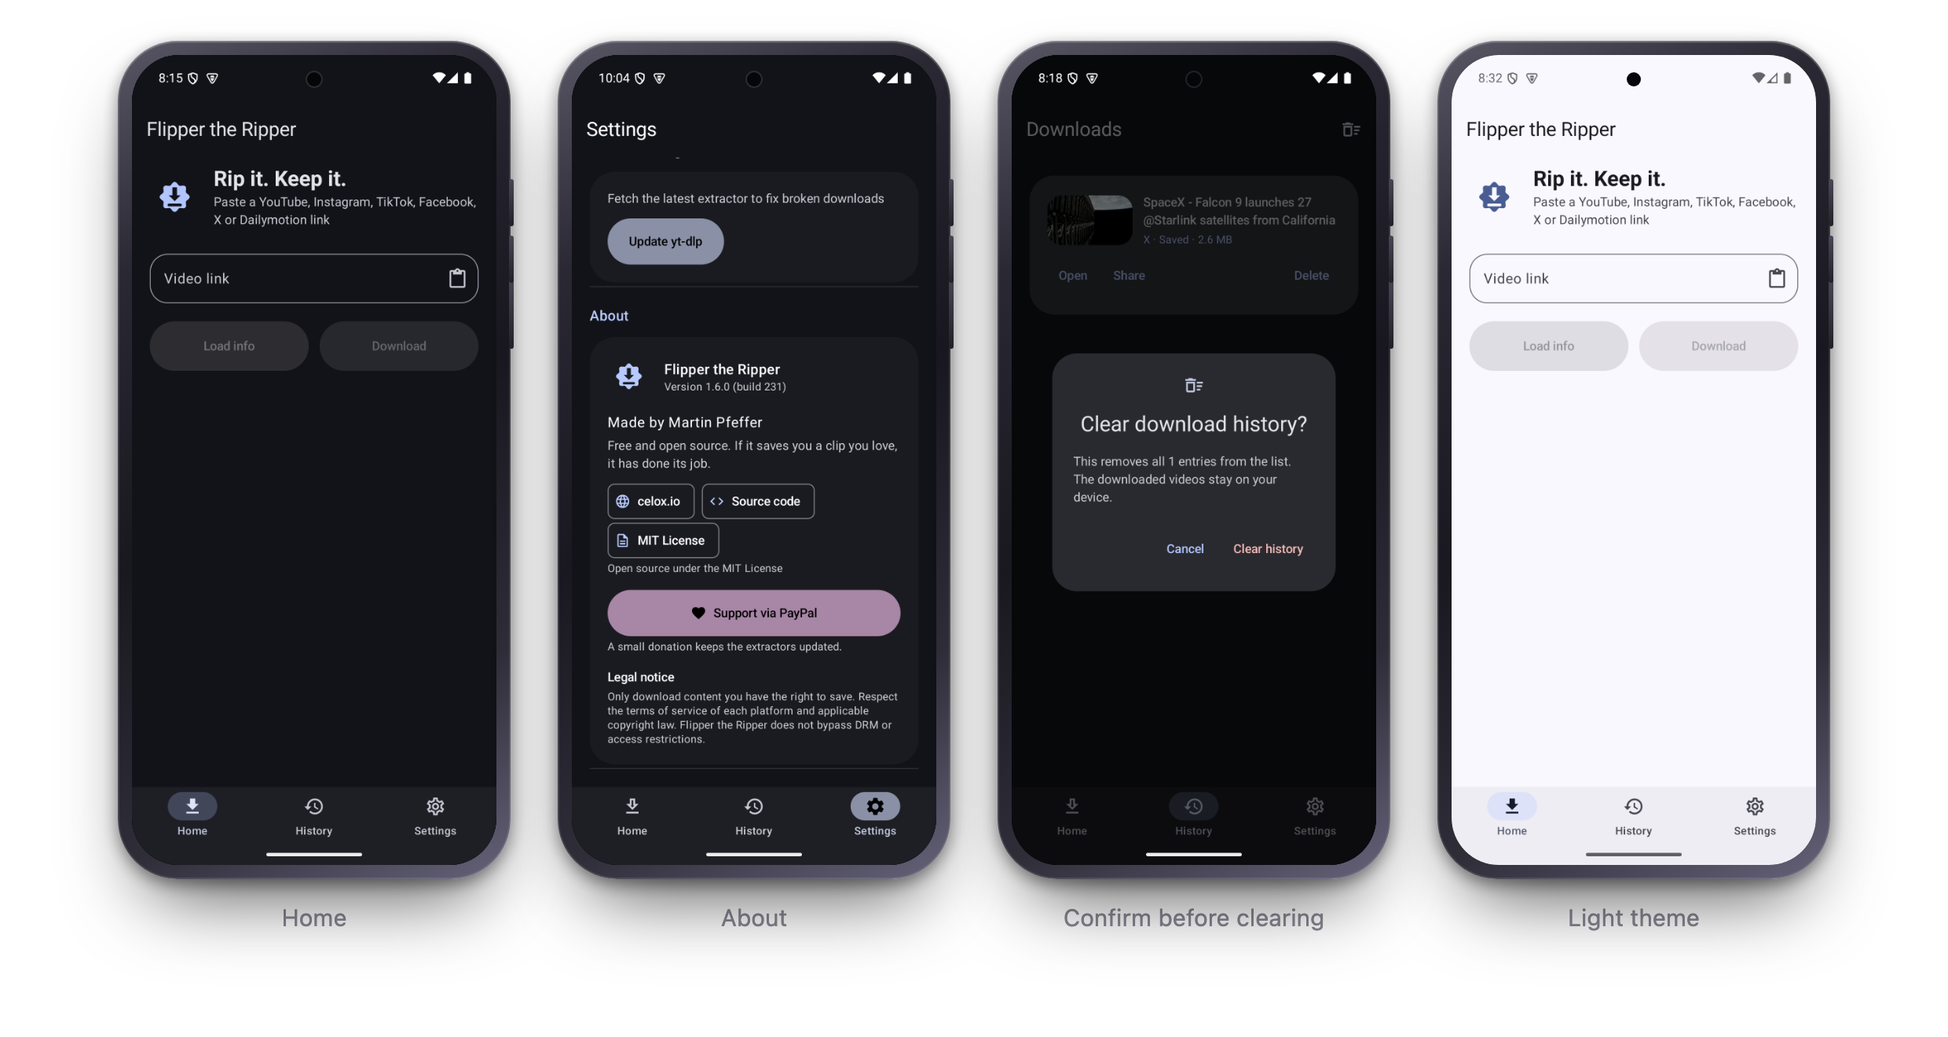
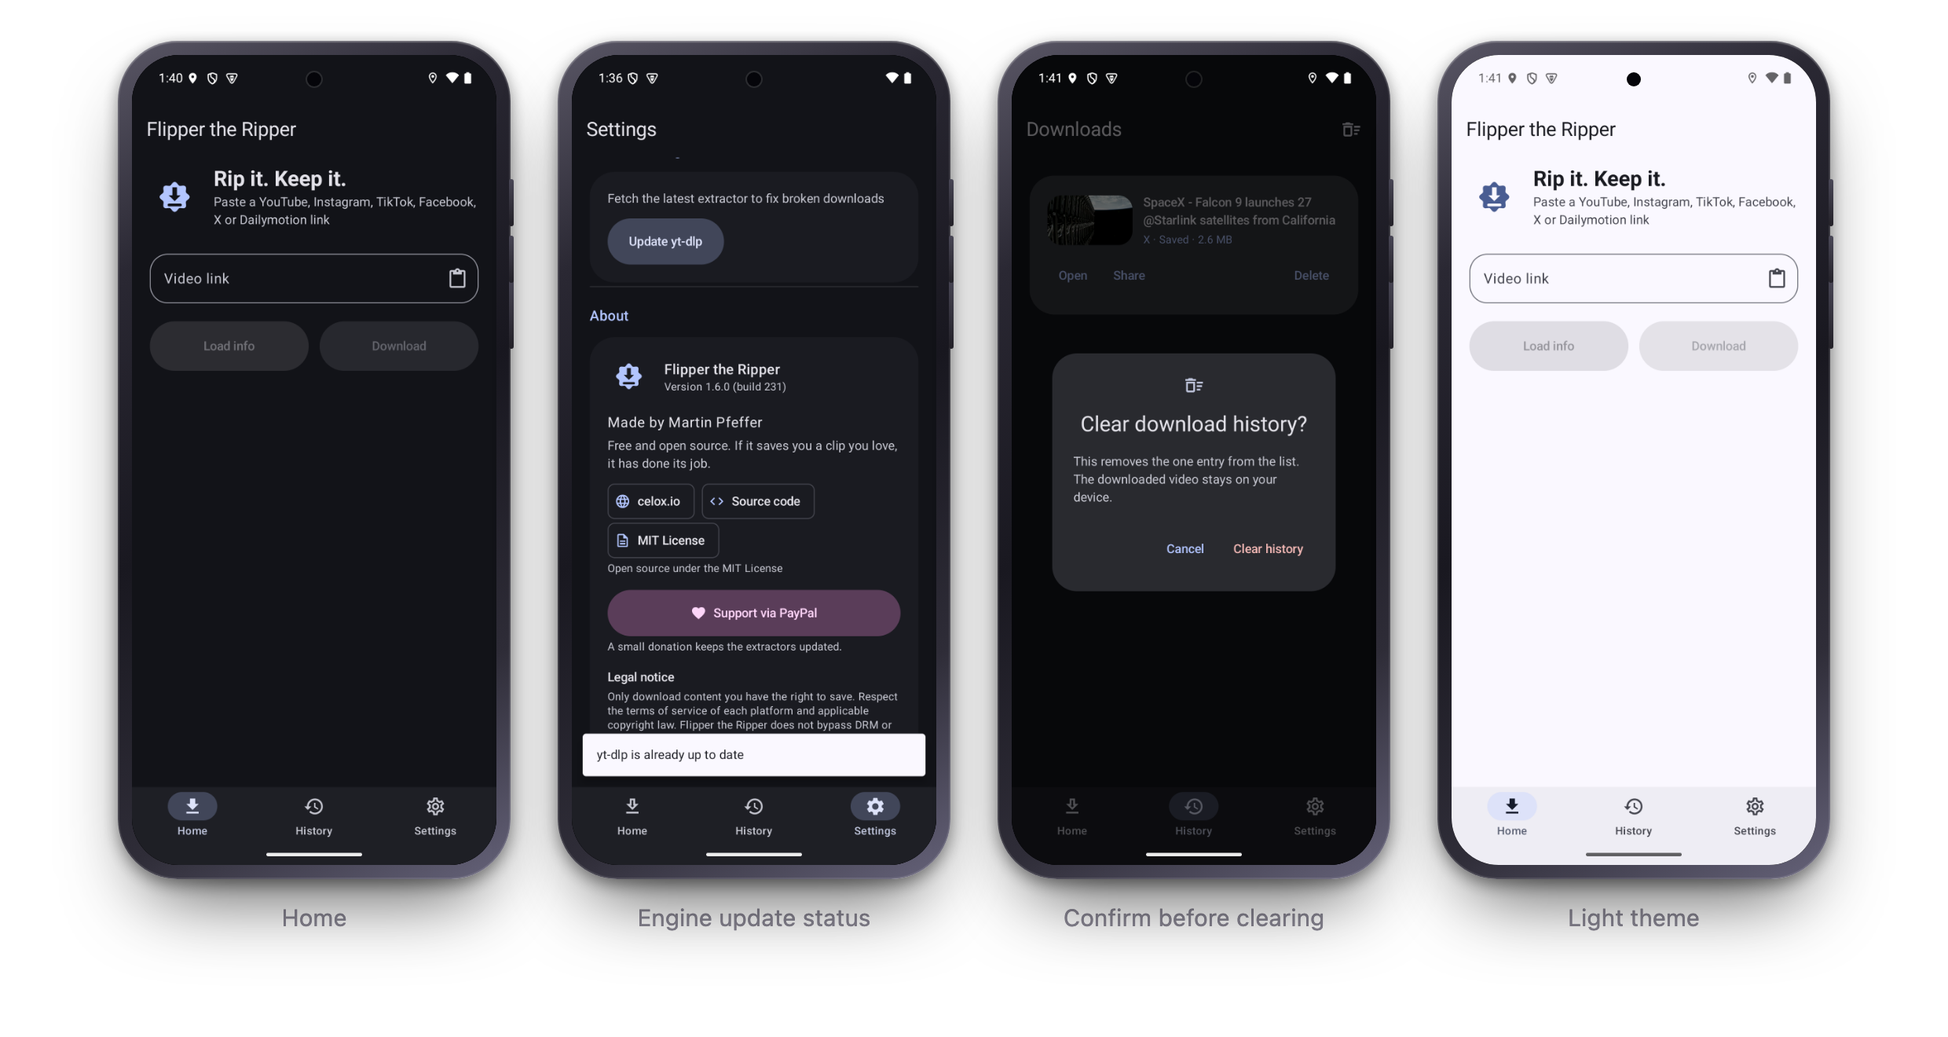
feat(settings): say what the engine update did, in words
Tapping "Update yt-dlp" answered with the library's enum name — "Engine
updated: ALREADY_UP_TO_DATE" — which is a machine talking. The raw status is
parsed into an EngineUpdateOutcome (updated / already current / unrecognised)
and the wording lives in string resources: "yt-dlp updated — broken downloads
should work again" or "yt-dlp is already up to date". An unrecognised status
is carried through rather than swallowed, so a future library version cannot
quietly become a false success; parsing tolerates case and whitespace because
it crosses a library boundary.

The button also shows that it is working. The fetch takes seconds over the
network and the button looked idle throughout, which invites a second tap: it
now shows a progress indicator with "Updating…" and is disabled meanwhile.

Fixes a real defect found by the test written for that state: the guard
against a second update sat inside the coroutine, so two taps in the same
frame both passed it and both fetched. The flag is claimed synchronously now.

Tests 204 -> 211, all mutation-probed, including one pinning that the new
wording and StaleEngineRetry agree on what counts as a real update — if those
diverged the app would claim it updated while refusing to retry on that basis.

README mockups replaced with fresh ones from this build; the second frame now
shows the update status, and the dialog frame incidentally shows the plural
resource working ("the one entry", not "all 1 entries").
[…]

diff --git a/app/src/main/kotlin/io/celox/flipperripper/ui/settings/SettingsScreen.kt b/app/src/main/kotlin/io/celox/flipperripper/ui/settings/SettingsScreen.kt
@@ -9,8 +9,10 @@ import androidx.compose.foundation.layout.fillMaxSize
 import androidx.compose.foundation.layout.fillMaxWidth
 import androidx.compose.foundation.layout.height
 import androidx.compose.foundation.layout.padding
+import androidx.compose.foundation.layout.size
 import androidx.compose.foundation.rememberScrollState
 import androidx.compose.foundation.verticalScroll
+import androidx.compose.material3.ButtonDefaults
 import androidx.compose.material3.Card
 import androidx.compose.material3.CardDefaults
 import androidx.compose.material3.ExperimentalMaterial3Api
@@ -38,7 +40,9 @@ import androidx.compose.ui.text.input.PasswordVisualTransformation
 import androidx.hilt.navigation.compose.hiltViewModel
 import androidx.lifecycle.compose.collectAsStateWithLifecycle
 import io.celox.flipperripper.R
+import io.celox.flipperripper.domain.model.EngineUpdateOutcome
 import io.celox.flipperripper.domain.model.ThemeMode
+import io.celox.flipperripper.ui.components.ExpressiveLoadingIndicator
 import io.celox.flipperripper.ui.components.SegmentedToggle
 import io.celox.flipperripper.ui.components.springPressed
 import io.celox.flipperripper.ui.theme.FieldShape
@@ -60,12 +64,28 @@ fun SettingsScreen(
     val scope = rememberCoroutineScope()
     val savedServerMsg = stringResource(R.string.settings_server_saved)
     val openFailedMsg = stringResource(R.string.about_open_failed)
+    val engineUpdatedMsg = stringResource(R.string.settings_engine_updated)
+    val engineCurrentMsg = stringResource(R.string.settings_engine_already_current)
+    val engineUnknownFmt = stringResource(R.string.settings_engine_update_unknown)
+    val updatingEngine by viewModel.updatingEngine.collectAsStateWithLifecycle()
 
     // Re-read the Instagram login state whenever Settings is shown, so it reflects a just-completed
     // (or cleared) login when the login screen pops back here.
     androidx.compose.runtime.LaunchedEffect(Unit) { viewModel.refreshInstagram() }
 
-    ObserveAsEvents(viewModel.messages) { message -> snackbarHostState.showSnackbar(message) }
+    ObserveAsEvents(viewModel.messages) { message ->
+        val text =
+            when (message) {
+                is SettingsMessage.Plain -> message.text
+                is SettingsMessage.EngineUpdate ->
+                    when (val outcome = message.outcome) {
+                        EngineUpdateOutcome.Updated -> engineUpdatedMsg
+                        EngineUpdateOutcome.AlreadyCurrent -> engineCurrentMsg
+                        is EngineUpdateOutcome.Unrecognised -> String.format(engineUnknownFmt, outcome.raw)
+                    }
+            }
+        snackbarHostState.showSnackbar(text)
+    }
 
     Scaffold(
         topBar = {
@@ -175,9 +195,20 @@ fun SettingsScreen(
                 val interaction = remember { MutableInteractionSource() }
                 FilledTonalButton(
                     onClick = viewModel::updateEngineNow,
+                    enabled = !updatingEngine,
                     interactionSource = interaction,
                     modifier = Modifier.height(Sizes.buttonHeight).springPressed(interaction),
-                ) { Text(stringResource(R.string.settings_update_engine)) }
+                ) {
+                    // Fetching the engine takes seconds over the network; an unchanged button reads as
+                    // "nothing happened" and invites a second tap.
+                    if (updatingEngine) {
+                        ExpressiveLoadingIndicator(modifier = Modifier.size(ButtonDefaults.IconSize))
+                        Spacer(Modifier.size(ButtonDefaults.IconSpacing))
+                        Text(stringResource(R.string.settings_update_engine_running))
+                    } else {
+                        Text(stringResource(R.string.settings_update_engine))
+                    }
+                }
             }
 
             SettingsSection(stringResource(R.string.settings_about)) {

diff --git a/app/src/test/kotlin/io/celox/flipperripper/ui/settings/SettingsViewModelTest.kt b/app/src/test/kotlin/io/celox/flipperripper/ui/settings/SettingsViewModelTest.kt
@@ -4,6 +4,7 @@ import app.cash.turbine.test
 import com.google.common.truth.Truth.assertThat
 import io.celox.flipperripper.domain.model.DownloadMode
 import io.celox.flipperripper.domain.model.EngineResult
+import io.celox.flipperripper.domain.model.EngineUpdateOutcome
 import io.celox.flipperripper.domain.model.ThemeMode
 import io.celox.flipperripper.domain.usecase.UpdateEngineUseCase
 import io.celox.flipperripper.testing.FakeEngineRepository
@@ -50,29 +51,65 @@ class SettingsViewModelTest {
         }
 
     @Test
-    fun `update engine success emits message`() =
+    fun `a real update is reported as an update, not as a library enum name`() =
         runTest {
+            // The screen used to show "Engine updated: DONE". What crosses the boundary now is state.
             engineRepo.updateResult = EngineResult.Success("DONE")
             val vm = createViewModel()
             vm.messages.test {
                 vm.updateEngineNow()
                 advanceUntilIdle()
-                assertThat(awaitItem()).contains("DONE")
+                assertThat(awaitItem())
+                    .isEqualTo(SettingsMessage.EngineUpdate(EngineUpdateOutcome.Updated))
                 cancelAndIgnoreRemainingEvents()
             }
         }
 
     @Test
-    fun `update engine failure emits error message`() =
+    fun `an engine that was already current is its own outcome`() =
         runTest {
-            engineRepo.updateResult =
-                EngineResult.Failure(io.celox.flipperripper.domain.model.DownloadError.Network())
+            // Not a failure, and not the same sentence as a real update.
+            engineRepo.updateResult = EngineResult.Success("ALREADY_UP_TO_DATE")
             val vm = createViewModel()
             vm.messages.test {
                 vm.updateEngineNow()
                 advanceUntilIdle()
-                assertThat(awaitItem()).isNotEmpty()
+                assertThat(awaitItem())
+                    .isEqualTo(SettingsMessage.EngineUpdate(EngineUpdateOutcome.AlreadyCurrent))
                 cancelAndIgnoreRemainingEvents()
             }
+        }
+
+    @Test
+    fun `update engine failure keeps the error's own wording`() =
+        runTest {
+            val error = io.celox.flipperripper.domain.model.DownloadError.Network()
+            engineRepo.updateResult = EngineResult.Failure(error)
+            val vm = createViewModel()
+            vm.messages.test {
+                vm.updateEngineNow()
+                advanceUntilIdle()
+                assertThat(awaitItem()).isEqualTo(SettingsMessage.Plain(error.message))
+                cancelAndIgnoreRemainingEvents()
+            }
+        }
+
+    @Test
+    fun `the update button reports that it is running, and only runs once`() =
+        runTest {
+            engineRepo.updateResult = EngineResult.Success("DONE")
+            val vm = createViewModel()
+            assertThat(vm.updatingEngine.value).isFalse()
+            vm.messages.test {
+                // A second tap while the first fetch is in flight must not start another one; the
+                // update is a network call that takes seconds with the button still on screen.
+                vm.updateEngineNow()
+                vm.updateEngineNow()
+                advanceUntilIdle()
+                assertThat(awaitItem()).isEqualTo(SettingsMessage.EngineUpdate(EngineUpdateOutcome.Updated))
+                expectNoEvents()
+                cancelAndIgnoreRemainingEvents()
+            }
+            assertThat(vm.updatingEngine.value).isFalse()
         }
 }

diff --git a/app/src/main/kotlin/io/celox/flipperripper/ui/settings/SettingsViewModel.kt b/app/src/main/kotlin/io/celox/flipperripper/ui/settings/SettingsViewModel.kt
@@ -7,6 +7,7 @@ import io.celox.flipperripper.domain.model.BackendConfig
 import io.celox.flipperripper.domain.model.DownloadMode
 import io.celox.flipperripper.domain.model.DownloadSource
 import io.celox.flipperripper.domain.model.EngineResult
+import io.celox.flipperripper.domain.model.EngineUpdateOutcome
 import io.celox.flipperripper.domain.model.ThemeMode
 import io.celox.flipperripper.domain.model.UserPreferences
 import io.celox.flipperripper.domain.repository.BackendConfigRepository
@@ -14,7 +15,9 @@ import io.celox.flipperripper.domain.repository.SettingsRepository
 import io.celox.flipperripper.domain.usecase.UpdateEngineUseCase
 import kotlinx.coroutines.channels.Channel
 import kotlinx.coroutines.flow.Flow
+import kotlinx.coroutines.flow.MutableStateFlow
 import kotlinx.coroutines.flow.SharingStarted
+import kotlinx.coroutines.flow.asStateFlow
 import kotlinx.coroutines.flow.receiveAsFlow
 import kotlinx.coroutines.flow.stateIn
 import kotlinx.coroutines.launch
@@ -56,8 +59,12 @@ constructor(
     fun setServer(url: String, apiKey: String) =
         viewModelScope.launch { backendConfigRepository.setServer(url, apiKey) }
 
-    private val _messages = Channel<String>(Channel.BUFFERED)
-    val messages: Flow<String> = _messages.receiveAsFlow()
+    private val _messages = Channel<SettingsMessage>(Channel.BUFFERED)
+    val messages: Flow<SettingsMessage> = _messages.receiveAsFlow()
+
+    /** True while an engine update is in flight, so the button can say so instead of looking idle. */
+    private val _updatingEngine = MutableStateFlow(false)
+    val updatingEngine = _updatingEngine.asStateFlow()
 
     fun setThemeMode(mode: ThemeMode) = viewModelScope.launch { settingsRepository.setThemeMode(mode) }
 
@@ -71,13 +78,26 @@ constructor(
 
     fun setDefaultMode(mode: DownloadMode) = viewModelScope.launch { settingsRepository.setDefaultMode(mode) }
 
-    fun updateEngineNow() =
+    fun updateEngineNow() {
+        // Claim the slot synchronously, before any coroutine starts. Checking the flag *inside* the
+        // coroutine lets two taps in the same frame both pass the check and both fetch — which is
+        // exactly what happened until a test caught it.
+        if (!_updatingEngine.compareAndSet(expect = false, update = true)) return
         viewModelScope.launch {
-            when (val result = updateEngine()) {
-                is EngineResult.Success -> _messages.send("Engine updated: ${result.value}")
-                is EngineResult.Failure -> _messages.send(result.error.message)
+            try {
+                val message =
+                    when (val result = updateEngine()) {
+                        is EngineResult.Success ->
+                            SettingsMessage.EngineUpdate(EngineUpdateOutcome.parse(result.value))
+                        // Engine errors already carry human wording from the error taxonomy.
+                        is EngineResult.Failure -> SettingsMessage.Plain(result.error.message)
+                    }
+                _messages.send(message)
+            } finally {
+                _updatingEngine.value = false
             }
         }
+    }
 
     private companion object {
         const val STOP_TIMEOUT_MS = 5_000L

diff --git a/app/src/test/kotlin/io/celox/flipperripper/domain/model/EngineUpdateOutcomeTest.kt b/app/src/test/kotlin/io/celox/flipperripper/domain/model/EngineUpdateOutcomeTest.kt
@@ -1,0 +1,51 @@
+package io.celox.flipperripper.domain.model
+
+import com.google.common.truth.Truth.assertThat
+import io.celox.flipperripper.data.engine.StaleEngineRetry
+import org.junit.Test
+
+class EngineUpdateOutcomeTest {
+    @Test
+    fun `a real version change reads as updated`() {
+        assertThat(EngineUpdateOutcome.parse("DONE")).isEqualTo(EngineUpdateOutcome.Updated)
+    }
+
+    @Test
+    fun `both ways of saying nothing changed mean the same thing`() {
+        // The library says ALREADY_UP_TO_DATE; the engine falls back to UP_TO_DATE when the library
+        // reports nothing at all. Neither is a failure.
+        listOf("ALREADY_UP_TO_DATE", "UP_TO_DATE").forEach {
+            assertThat(EngineUpdateOutcome.parse(it)).isEqualTo(EngineUpdateOutcome.AlreadyCurrent)
+        }
+    }
+
+    @Test
+    fun `case and whitespace crossing the library boundary do not create an unknown state`() {
+        listOf("done", " DONE ", "Done").forEach {
+            assertThat(EngineUpdateOutcome.parse(it)).isEqualTo(EngineUpdateOutcome.Updated)
+        }
+        assertThat(EngineUpdateOutcome.parse(" already_up_to_date "))
+            .isEqualTo(EngineUpdateOutcome.AlreadyCurrent)
+    }
+
+    @Test
+    fun `an unknown status is carried through, not swallowed`() {
+        // A future library version may add states; the screen should still be able to say something
+        // truthful rather than silently claiming success.
+        val outcome = EngineUpdateOutcome.parse("  SOME_NEW_STATE  ")
+        assertThat(outcome).isEqualTo(EngineUpdateOutcome.Unrecognised("SOME_NEW_STATE"))
+    }
+
+    @Test
+    fun `the retry rule and the wording agree on what counts as an update`() {
+        // StaleEngineRetry only retries after a real version change. If these two ever disagreed, the
+        // app would tell someone it updated while refusing to retry on that basis (or the reverse).
+        assertThat(StaleEngineRetry.updateJustifiesRetry(EngineUpdateOutcome.DONE)).isTrue()
+        assertThat(EngineUpdateOutcome.parse(EngineUpdateOutcome.DONE)).isEqualTo(EngineUpdateOutcome.Updated)
+
+        listOf("ALREADY_UP_TO_DATE", "UP_TO_DATE").forEach {
+            assertThat(StaleEngineRetry.updateJustifiesRetry(it)).isFalse()
+            assertThat(EngineUpdateOutcome.parse(it)).isEqualTo(EngineUpdateOutcome.AlreadyCurrent)
+        }
+    }
+}

diff --git a/app/src/main/kotlin/io/celox/flipperripper/domain/model/EngineUpdateOutcome.kt b/app/src/main/kotlin/io/celox/flipperripper/domain/model/EngineUpdateOutcome.kt
@@ -1,0 +1,44 @@
+package io.celox.flipperripper.domain.model
+
+/**
+ * What came of asking the engine to update itself.
+ *
+ * The bundled library answers with an enum whose names used to be shown to people verbatim — the
+ * Settings screen said "Engine updated: ALREADY_UP_TO_DATE", which is a machine talking. This type
+ * turns the raw answer into the two things a person actually wants to know, so the wording lives in
+ * string resources where it can be read and translated.
+ */
+sealed interface EngineUpdateOutcome {
+    /** A newer yt-dlp was fetched and installed. */
+    data object Updated : EngineUpdateOutcome
+
+    /** The engine was already current — nothing to do, and that is good news, not a failure. */
+    data object AlreadyCurrent : EngineUpdateOutcome
+
+    /**
+     * The library reported something this app does not know. Carries [raw] so the screen can still
+     * say *something* truthful instead of swallowing it — a new library version may add states.
+     */
+    data class Unrecognised(val raw: String) : EngineUpdateOutcome
+
+    companion object {
+        /** The library's `UpdateStatus.DONE`: an actual version change. */
+        const val DONE = "DONE"
+
+        /** `UpdateStatus.ALREADY_UP_TO_DATE`, plus the engine's own fallback when it reports nothing. */
+        private val UNCHANGED = setOf("ALREADY_UP_TO_DATE", "UP_TO_DATE")
+
+        /**
+         * Read the library's status name. Case and surrounding whitespace are ignored: this crosses a
+         * library boundary, and a status that arrives as "done" should not become an unknown state.
+         */
+        fun parse(raw: String): EngineUpdateOutcome {
+            val normalised = raw.trim().uppercase()
+            return when {
+                normalised == DONE -> Updated
+                normalised in UNCHANGED -> AlreadyCurrent
+                else -> Unrecognised(raw.trim())
+            }
+        }
+    }
+}

diff --git a/app/src/main/kotlin/io/celox/flipperripper/ui/settings/SettingsMessage.kt b/app/src/main/kotlin/io/celox/flipperripper/ui/settings/SettingsMessage.kt
@@ -1,0 +1,18 @@
+package io.celox.flipperripper.ui.settings
+
+import io.celox.flipperripper.domain.model.EngineUpdateOutcome
+
+/**
+ * Something the Settings screen should say in a snackbar.
+ *
+ * Deliberately not a plain `String` for every case: the engine-update result is a *state*, and the
+ * words for it belong in string resources, not in a ViewModel that has no business holding a Context.
+ * Errors stay plain text because the error taxonomy already phrases them for a person to read.
+ */
+sealed interface SettingsMessage {
+    /** Text that is already human-readable — engine errors phrase themselves. */
+    data class Plain(val text: String) : SettingsMessage
+
+    /** How an engine update turned out; the screen picks the wording. */
+    data class EngineUpdate(val outcome: EngineUpdateOutcome) : SettingsMessage
+}

diff --git a/CHANGELOG.md b/CHANGELOG.md
@@ -7,6 +7,28 @@ and this project adheres to [Semantic Versioning](https://semver.org/spec/v2.0.0
 
 ## [Unreleased]
 
+### Changed
+- **The engine update says what happened, in words.** Tapping *Update yt-dlp* used to answer with the
+  library's enum name — "Engine updated: ALREADY_UP_TO_DATE" — which is a machine talking. The raw
+  status is now parsed into a small `EngineUpdateOutcome` (updated / already current / unrecognised)
+  and the wording lives in string resources: *"yt-dlp updated — broken downloads should work again"*
+  or *"yt-dlp is already up to date"*. An unknown status is still shown rather than swallowed, so a
+  future library version cannot quietly turn into a false success. Parsing tolerates case and
+  whitespace, because this crosses a library boundary.
+- **The update button now shows that it is working.** Fetching the engine is a network call that takes
+  seconds; the button previously looked idle throughout, which invites a second tap. It now shows a
+  progress indicator and "Updating…", and is disabled while the fetch runs.
+
+### Fixed
+- **A second tap could start a second engine update.** The guard against that sat *inside* the
+  coroutine, so two taps in the same frame both passed it and both fetched. The flag is claimed
+  synchronously now. Found by a test written for the new button state, not in the field.
+
+### Added
+- Unit tests for the update outcome and the button state (204 → 211), including a test that the
+  wording and the self-healing retry rule agree on what counts as a real update — if they ever
+  diverged, the app would claim it updated while refusing to retry on that basis.
+
 ### Added
 - **README badges that are checked against reality.** Version, unit-test count, instrumented-test
   count and lines of code now sit at the top of the README, and `ReadmeBadgesTest` measures each one

diff --git a/README.md b/README.md
@@ -7,7 +7,7 @@
 **A modern, open-source Android app to download publicly accessible videos from YouTube, Instagram, TikTok, Facebook, X and Dailymotion.**
 
 [![version](https://img.shields.io/badge/version-1.6.0-7B4DFF?style=for-the-badge&logo=android&logoColor=white)](https://github.com/pepperonas/flipper-the-ripper/releases/latest)
-[![unit tests](https://img.shields.io/badge/unit%20tests-204-2E9E5B?style=for-the-badge&logo=junit5&logoColor=white)](app/src/test)
+[![unit tests](https://img.shields.io/badge/unit%20tests-211-2E9E5B?style=for-the-badge&logo=junit5&logoColor=white)](app/src/test)
 [![lines of code](https://img.shields.io/badge/lines%20of%20code-6.5k-4B6BDF?style=for-the-badge&logo=kotlin&logoColor=white)](app/src/main/kotlin)
 
 [![CI](https://img.shields.io/github/actions/workflow/status/pepperonas/flipper-the-ripper/ci.yml?branch=main&label=build&logo=github)](https://github.com/pepperonas/flipper-the-ripper/actions/workflows/ci.yml)
@@ -37,7 +37,7 @@
 
 ## 📸 Screenshots
 
-<img src="docs/screenshots/mockups.png" alt="Home, About, the clear-history confirmation and the light theme" width="100%">
+<img src="docs/screenshots/mockups.png" alt="Home, the engine update status, the clear-history confirmation and the light theme" width="100%">
 
 <sub>Material 3 **Expressive** throughout: spring-based screen transitions, one drawn mark, a compact 64 dp navigation bar, and dynamic color in dark and light.</sub>
 
